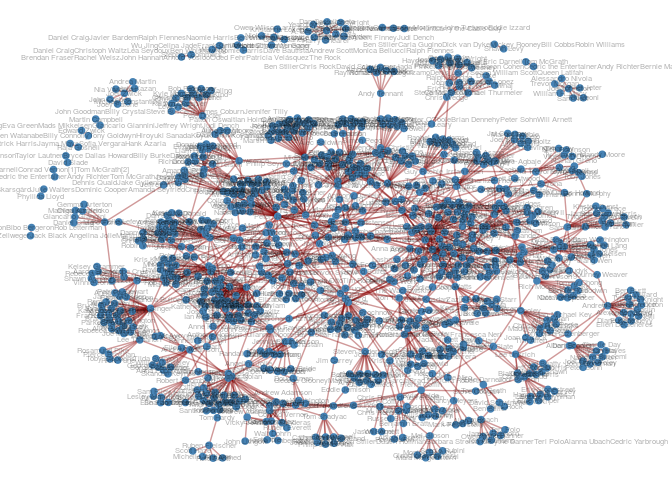
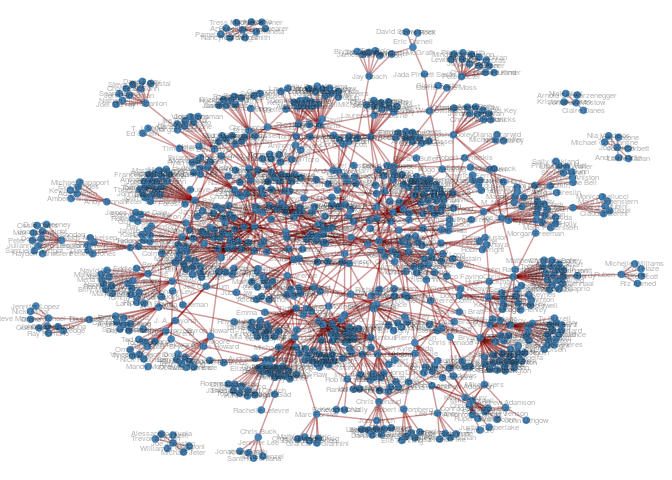
new

diff --git a/Bukan Infografis/Frequent Collaborators/Directors.md b/Bukan Infografis/Frequent Collaborators/Directors.md
@@ -46,3 +46,56 @@ Berapa banyak film yang saya dapatkan?
     ## [1] 200
 
 ![](Directors_files/figure-gfm/unnamed-chunk-5-1.png)<!-- -->
+
+    ##                          nama close between degree
+    ## 1                 David Yates     0       0     39
+    ## 2               Peter Jackson     0       0     39
+    ## 3      Anthony RussoJoe Russo     0       0     35
+    ## 4                Bryan Singer     0       0     34
+    ## 5                 Jon Favreau     0      66     29
+    ## 6                 Michael Bay     0       0     29
+    ## 7                J. J. Abrams     0       0     28
+    ## 8                 Bill Condon     0       0     24
+    ## 9           Christopher Nolan     0       0     24
+    ## 10                 Tim Burton     0       0     23
+    ## 11                Joss Whedon     0       0     19
+    ## 12               Ridley Scott     0       0     19
+    ## 13                Zack Snyder     0       0     19
+    ## 14                 James Gunn     0       0     18
+    ## 15                 Ron Howard     0       0     18
+    ## 16             Andrew Stanton     0       0     17
+    ## 17                  James Wan     0       0     17
+    ## 18             Chris Columbus     0       0     16
+    ## 19               David Leitch     0       0     15
+    ## 20          Wolfgang Petersen     0       0     15
+    ## 21                Alan Taylor     0       0     14
+    ## 22             Alfonso Cuarón     0       0     14
+    ## 23                Chris Weitz     0       0     14
+    ## 24           Francis Lawrence     0       0     14
+    ## 25        Jennifer Yuh Nelson     0       0     14
+    ## 26                  Jon Watts     0       0     14
+    ## 27               Rian Johnson     0       0     14
+    ## 28          Steven Soderbergh     0       0     14
+    ## 29                Josh Cooley     0       0     13
+    ## 30                Lee Unkrich     0       0     13
+    ## 31                Mike Newell     0       0     13
+    ## 32                Pete Docter     0       0     13
+    ## 33  Pierre Coffin\nKyle Balda     0       0     13
+    ## 34                  Sam Raimi     0       0     13
+    ## 35             Andrew Adamson     0       0     12
+    ## 36                  Brad Bird     0       0     12
+    ## 37               Brett Ratner     0       0     12
+    ## 38   Byron Howard\nRich Moore     0       0     12
+    ## 39                Guy Ritchie     0       0     12
+    ## 40 John StevensonMark Osborne     0       0     12
+    ## 41                 Justin Lin     0       0     12
+    ## 42                  Marc Webb     0       0     12
+    ## 43              Todd Phillips     0       0     12
+    ## 44           Barry Sonnenfeld     0       0     11
+    ## 45               Chris Renaud     0       0     11
+    ## 46                 David Ayer     0       0     11
+    ## 47               F. Gary Gray     0       0     11
+    ## 48             Gore Verbinski     0       0     11
+    ## 49               Ryan Coogler     0       0     11
+
+![](Directors_files/figure-gfm/unnamed-chunk-6-1.png)<!-- -->
